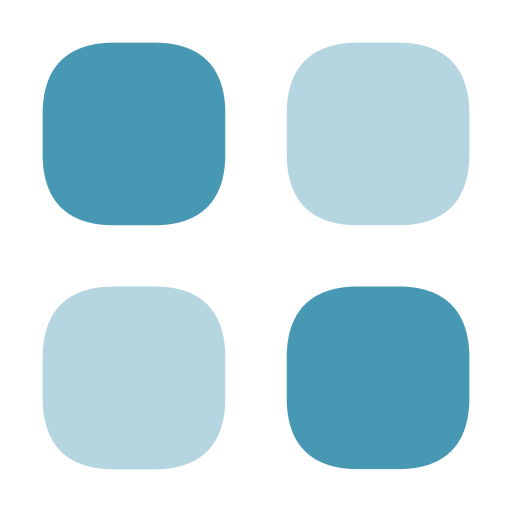
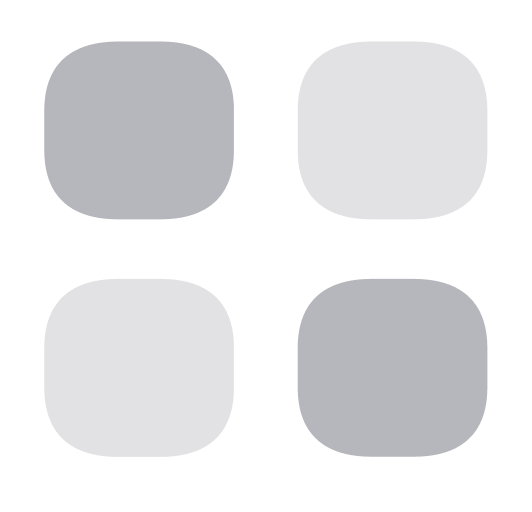
update home sidebar

diff --git a/packages/app/components/MenuSidebar.tsx b/packages/app/components/MenuSidebar.tsx
@@ -1,131 +1,120 @@
 
-import { SearchIcon, XIcon } from '@heroicons/react/outline';
-import { motion } from 'framer-motion';
+import { SearchIcon, ChevronLeftIcon, CreditCardIcon } from '@heroicons/react/outline';
 import React, { Fragment, useEffect, useState } from 'react';
+import { useRouter } from 'next/router';
+import Image from 'next/image';
+import logo from '../images/logo.png';
+import icon1 from '../images/icon1.png';
+import icon2 from '../images/icon2.png';
+
+import { motion, AnimatePresence, useAnimation } from 'framer-motion';
+
 
 function MenuSidebar() {
+  const router = useRouter();
+  const controlsForOpen = useAnimation();
+  const controlsforicon1 = useAnimation();
+  const controlsforicon2 = useAnimation();
 
   const [sidebarOpen, setSidebarOpen] = useState(false);
 
   return (
     <>
-      <motion.div
-        transition={{ layout: { duration: 1.5, type: 'spring' } }}
-        layout
-        onClick={() => setSidebarOpen(!sidebarOpen)}
-        className='absolute top-20 left-0 bottom-0 bg-blue-300 z-50 cursor-pointer'>
-
-        <motion.div
-          className='flex items-center justify-center'
-        >
-          <motion.div
-            layout='position'
-          >
-            <SearchIcon className='w-10 h-10 mx-2' />
-            <SearchIcon className='w-10 h-10 mx-2' />
-            <SearchIcon className='w-10 h-10 mx-2' />
-
-          </motion.div>
-
-          {sidebarOpen && (
-            <motion.div
-              initial={{ opacity: 0 }}
-              animate={{ opacity: 1 }}
-              transition={{ duration: 1 }}
-            >
-              <p className='w-60 h-10'>search</p>
-              <p className='w-60 h-10'>search</p>
-              <p className='w-60 h-10'>search</p>
-            </motion.div>
-          )}
-
-        </motion.div>
-
-      </ motion.div>
-
-      <motion.div
-        transition={{ layout: { duration: 0.6, type: 'spring' } }}
-        layout
-        onClick={() => setSidebarOpen(!sidebarOpen)}
-        className='absolute top-20 left-96 bottom-0 bg-blue-300 z-50 cursor-pointer'>
-
-        <motion.div
-          className='flex items-center justify-center'
-        >
-          <motion.div
-            layout='position'
-          >
-            <SearchIcon className='w-10 h-10 mx-2' />
-            <SearchIcon className='w-10 h-10 mx-2' />
-            <SearchIcon className='w-10 h-10 mx-2' />
-
-          </motion.div>
-
-          {sidebarOpen && (
-            <motion.div
-              initial={{ opacity: 0 }}
-              animate={{ opacity: 1 }}
-              transition={{ duration: 1 }}
-            >
-              <p className='w-60 h-10'>search</p>
-              <p className='w-60 h-10'>search</p>
-              <p className='w-60 h-10'>search</p>
-            </motion.div>
-          )}
-
-        </motion.div>
-
-      </ motion.div>
-
-      <motion.div
-        transition={{ layout: { duration: 1.0, type: 'tween' } }}
-        layout
-        onClick={() => setSidebarOpen(!sidebarOpen)}
-        className='absolute top-20 left-[760px] bottom-0 bg-blue-300 z-50 cursor-pointer'>
-
-        <motion.div
-          className='flex items-center justify-center'
-        >
-          <motion.div
-            layout='position'
-          >
-            <SearchIcon className='w-10 h-10 mx-2' />
-            <SearchIcon className='w-10 h-10 mx-2' />
-            <SearchIcon className='w-10 h-10 mx-2' />
-
-          </motion.div>
-
-          {sidebarOpen && (
-            <motion.div
-              initial={{ opacity: 0 }}
-              animate={{ opacity: 1 }}
-              transition={{ duration: 1 }}
-            >
-              <p className='w-60 h-10'>search</p>
-              <p className='w-60 h-10'>search</p>
-              <p className='w-60 h-10'>search</p>
-            </motion.div>
-          )}
-
-        </motion.div>
-
-      </ motion.div>
 
       <motion.div
         transition={{ layout: { duration: 0.6, type: 'tween' } }}
         layout
-        onClick={() => setSidebarOpen(!sidebarOpen)}
-        className='absolute top-20 left-[1200px] bottom-0 bg-blue-300 z-50 cursor-pointer'>
+        // onClick={() => setSidebarOpen(!sidebarOpen)}
+        onMouseOver={() => controlsForOpen.start({ opacity: 100 })}
+        onMouseOut={() => !sidebarOpen && controlsForOpen.start({ opacity: 0 })}
+        className='absolute top-0 left-0 bottom-0 bg-[#1A1A1A] z-50 '>
 
+        {/* logo */}
         <motion.div
-          className='flex items-center justify-center'
+          className='flex items-center justify-center group mt-[40px] mb-[70px]'
         >
           <motion.div
             layout='position'
+            className='w-[90px]'
           >
-            <SearchIcon className='w-10 h-10 mx-2' />
-            <SearchIcon className='w-10 h-10 mx-2' />
-            <SearchIcon className='w-10 h-10 mx-2' />
+            <div className='w-[38px] h-[38px] mx-auto relative '>
+              <Image
+                onClick={() => router.push('/')}
+                layout='fill'
+                objectFit='contain'
+                src={logo.src}
+              />
+            </div>
+          </motion.div>
+
+          {sidebarOpen && (
+            <motion.div
+              initial={{ opacity: 0 }}
+              animate={{ opacity: 1 }}
+              transition={{ duration: 1 }}
+              className='w-[170px]'
+            >
+
+              <p className='w-full h-full text-white font-roboto text-[20px]'>CHOKO</p>
+            </motion.div>
+          )}
+
+        </motion.div>
+
+        {/* 四个圆圈icon */}
+        <motion.div
+          className='flex items-center justify-center group relative mb-6 cursor-pointer'
+        >
+          <motion.div
+            layout='position'
+            className='w-[90px]'
+          >
+            <motion.div
+              layout='position'
+              className='w-[32px] h-[32px] mx-auto relative group-hover:hidden'>
+              <Image
+                onClick={() => router.push('/home')}
+                layout='fill'
+                objectFit='contain'
+                src={icon1.src}
+              />
+            </motion.div>
+            <motion.div
+              layout='position'
+              className='w-[32px] h-[32px] mx-auto relative hidden group-hover:flex'>
+              <Image
+                onClick={() => router.push('/home')}
+                layout='fill'
+                objectFit='contain'
+                src={icon2.src}
+              />
+            </motion.div>
+          </motion.div>
+
+          {sidebarOpen && (
+            <motion.div
+              initial={{ opacity: 0 }}
+              animate={{ opacity: 1 }}
+              transition={{ duration: 1 }}
+              className='w-[170px]'
+            >
+              <p className='w-full h-full text-[#747474] group-hover:text-white font-roboto text-[17px]'>Dashboard</p>
+
+            </motion.div>
+          )}
+
+        </motion.div>
+
+        <motion.div
+          className='flex items-center justify-center group mb-6 cursor-pointer'
+        >
+          <motion.div
+            layout='position'
+            className='w-[90px]'
+          >
+            <div className='w-[32px] h-[32px] mx-auto relative '>
+              <CreditCardIcon className='h-8 w-8 text-[#747474] group-hover:text-white' />
+            </div>
 
           </motion.div>
 
@@ -134,16 +123,145 @@ function MenuSidebar() {
               initial={{ opacity: 0 }}
               animate={{ opacity: 1 }}
               transition={{ duration: 1 }}
+              className='w-[170px]'
             >
-              <p className='w-60 h-10'>search</p>
-              <p className='w-60 h-10'>search</p>
-              <p className='w-60 h-10'>search</p>
+              <p className='w-full h-full text-[#747474] group-hover:text-white font-roboto text-[17px]'>Wallet</p>
+
+            </motion.div>
+          )}
+
+        </motion.div>
+
+        <motion.div
+          className='flex items-center justify-center group mb-6 cursor-pointer'
+        >
+          <motion.div
+            layout='position'
+            className='w-[90px]'
+          >
+            <div className='w-[32px] h-[32px] mx-auto relative '>
+              <CreditCardIcon className='h-8 w-8 text-[#747474] group-hover:text-white' />
+            </div>
+
+          </motion.div>
+
+          {sidebarOpen && (
+            <motion.div
+              initial={{ opacity: 0 }}
+              animate={{ opacity: 1 }}
+              transition={{ duration: 1 }}
+              className='w-[170px]'
+            >
+              <p className='w-full h-full text-[#747474] group-hover:text-white font-roboto text-[17px]'>Wallet</p>
+
+            </motion.div>
+          )}
+
+        </motion.div>
+
+        <motion.div
+          className='flex items-center justify-center group mb-6 cursor-pointer'
+        >
+          <motion.div
+            layout='position'
+            className='w-[90px]'
+          >
+            <div className='w-[32px] h-[32px] mx-auto relative '>
+              <CreditCardIcon className='h-8 w-8 text-[#747474] group-hover:text-white' />
+            </div>
+
+          </motion.div>
+
+          {sidebarOpen && (
+            <motion.div
+              initial={{ opacity: 0 }}
+              animate={{ opacity: 1 }}
+              transition={{ duration: 1 }}
+              className='w-[170px]'
+            >
+              <p className='w-full h-full text-[#747474] group-hover:text-white font-roboto text-[17px]'>Wallet</p>
+
+            </motion.div>
+          )}
+
+        </motion.div>
+
+        <motion.div
+          className='flex items-center justify-center group mb-6 cursor-pointer'
+        >
+          <motion.div
+            layout='position'
+            className='w-[90px]'
+          >
+            <div className='w-[32px] h-[32px] mx-auto relative '>
+              <CreditCardIcon className='h-8 w-8 text-[#747474] group-hover:text-white' />
+            </div>
+
+          </motion.div>
+
+          {sidebarOpen && (
+            <motion.div
+              initial={{ opacity: 0 }}
+              animate={{ opacity: 1 }}
+              transition={{ duration: 1 }}
+              className='w-[170px]'
+            >
+              <p className='w-full h-full text-[#747474] group-hover:text-white font-roboto text-[17px]'>Wallet</p>
+
+            </motion.div>
+          )}
+
+        </motion.div>
+
+
+        {/* 箭头拉伸 */}
+        <motion.div
+          className=" h-10 w-10 ml-7 mt-10"
+          animate={controlsForOpen}
+          layout='position'
+          onClick={() => setSidebarOpen(!sidebarOpen)}
+        >
+          <motion.div
+            className=""
+            animate={{ rotate: sidebarOpen ? 0 : 180 }}
+          >
+            <ChevronLeftIcon className='h-10 w-10 text-[#747474] hover:text-white  cursor-pointer' />
+          </motion.div>
+        </motion.div>
+
+
+        <motion.div
+          className='flex items-center justify-center group mb-6 cursor-pointer absolute bottom-5'
+        >
+          <motion.div
+            layout='position'
+            className='w-[90px]'
+          >
+            <div className='w-[32px] h-[32px] mx-auto relative '>
+              <CreditCardIcon className='h-8 w-8 text-[#747474] group-hover:text-white' />
+            </div>
+
+          </motion.div>
+
+          {sidebarOpen && (
+            <motion.div
+              initial={{ opacity: 0 }}
+              animate={{ opacity: 1 }}
+              transition={{ duration: 1 }}
+              className='w-[170px]'
+            >
+              <p className='w-full h-full text-[#747474] group-hover:text-white font-roboto text-[17px]'>Wallet</p>
+
             </motion.div>
           )}
 
         </motion.div>
 
       </ motion.div>
+
+
+
+
     </>
   )
 }
